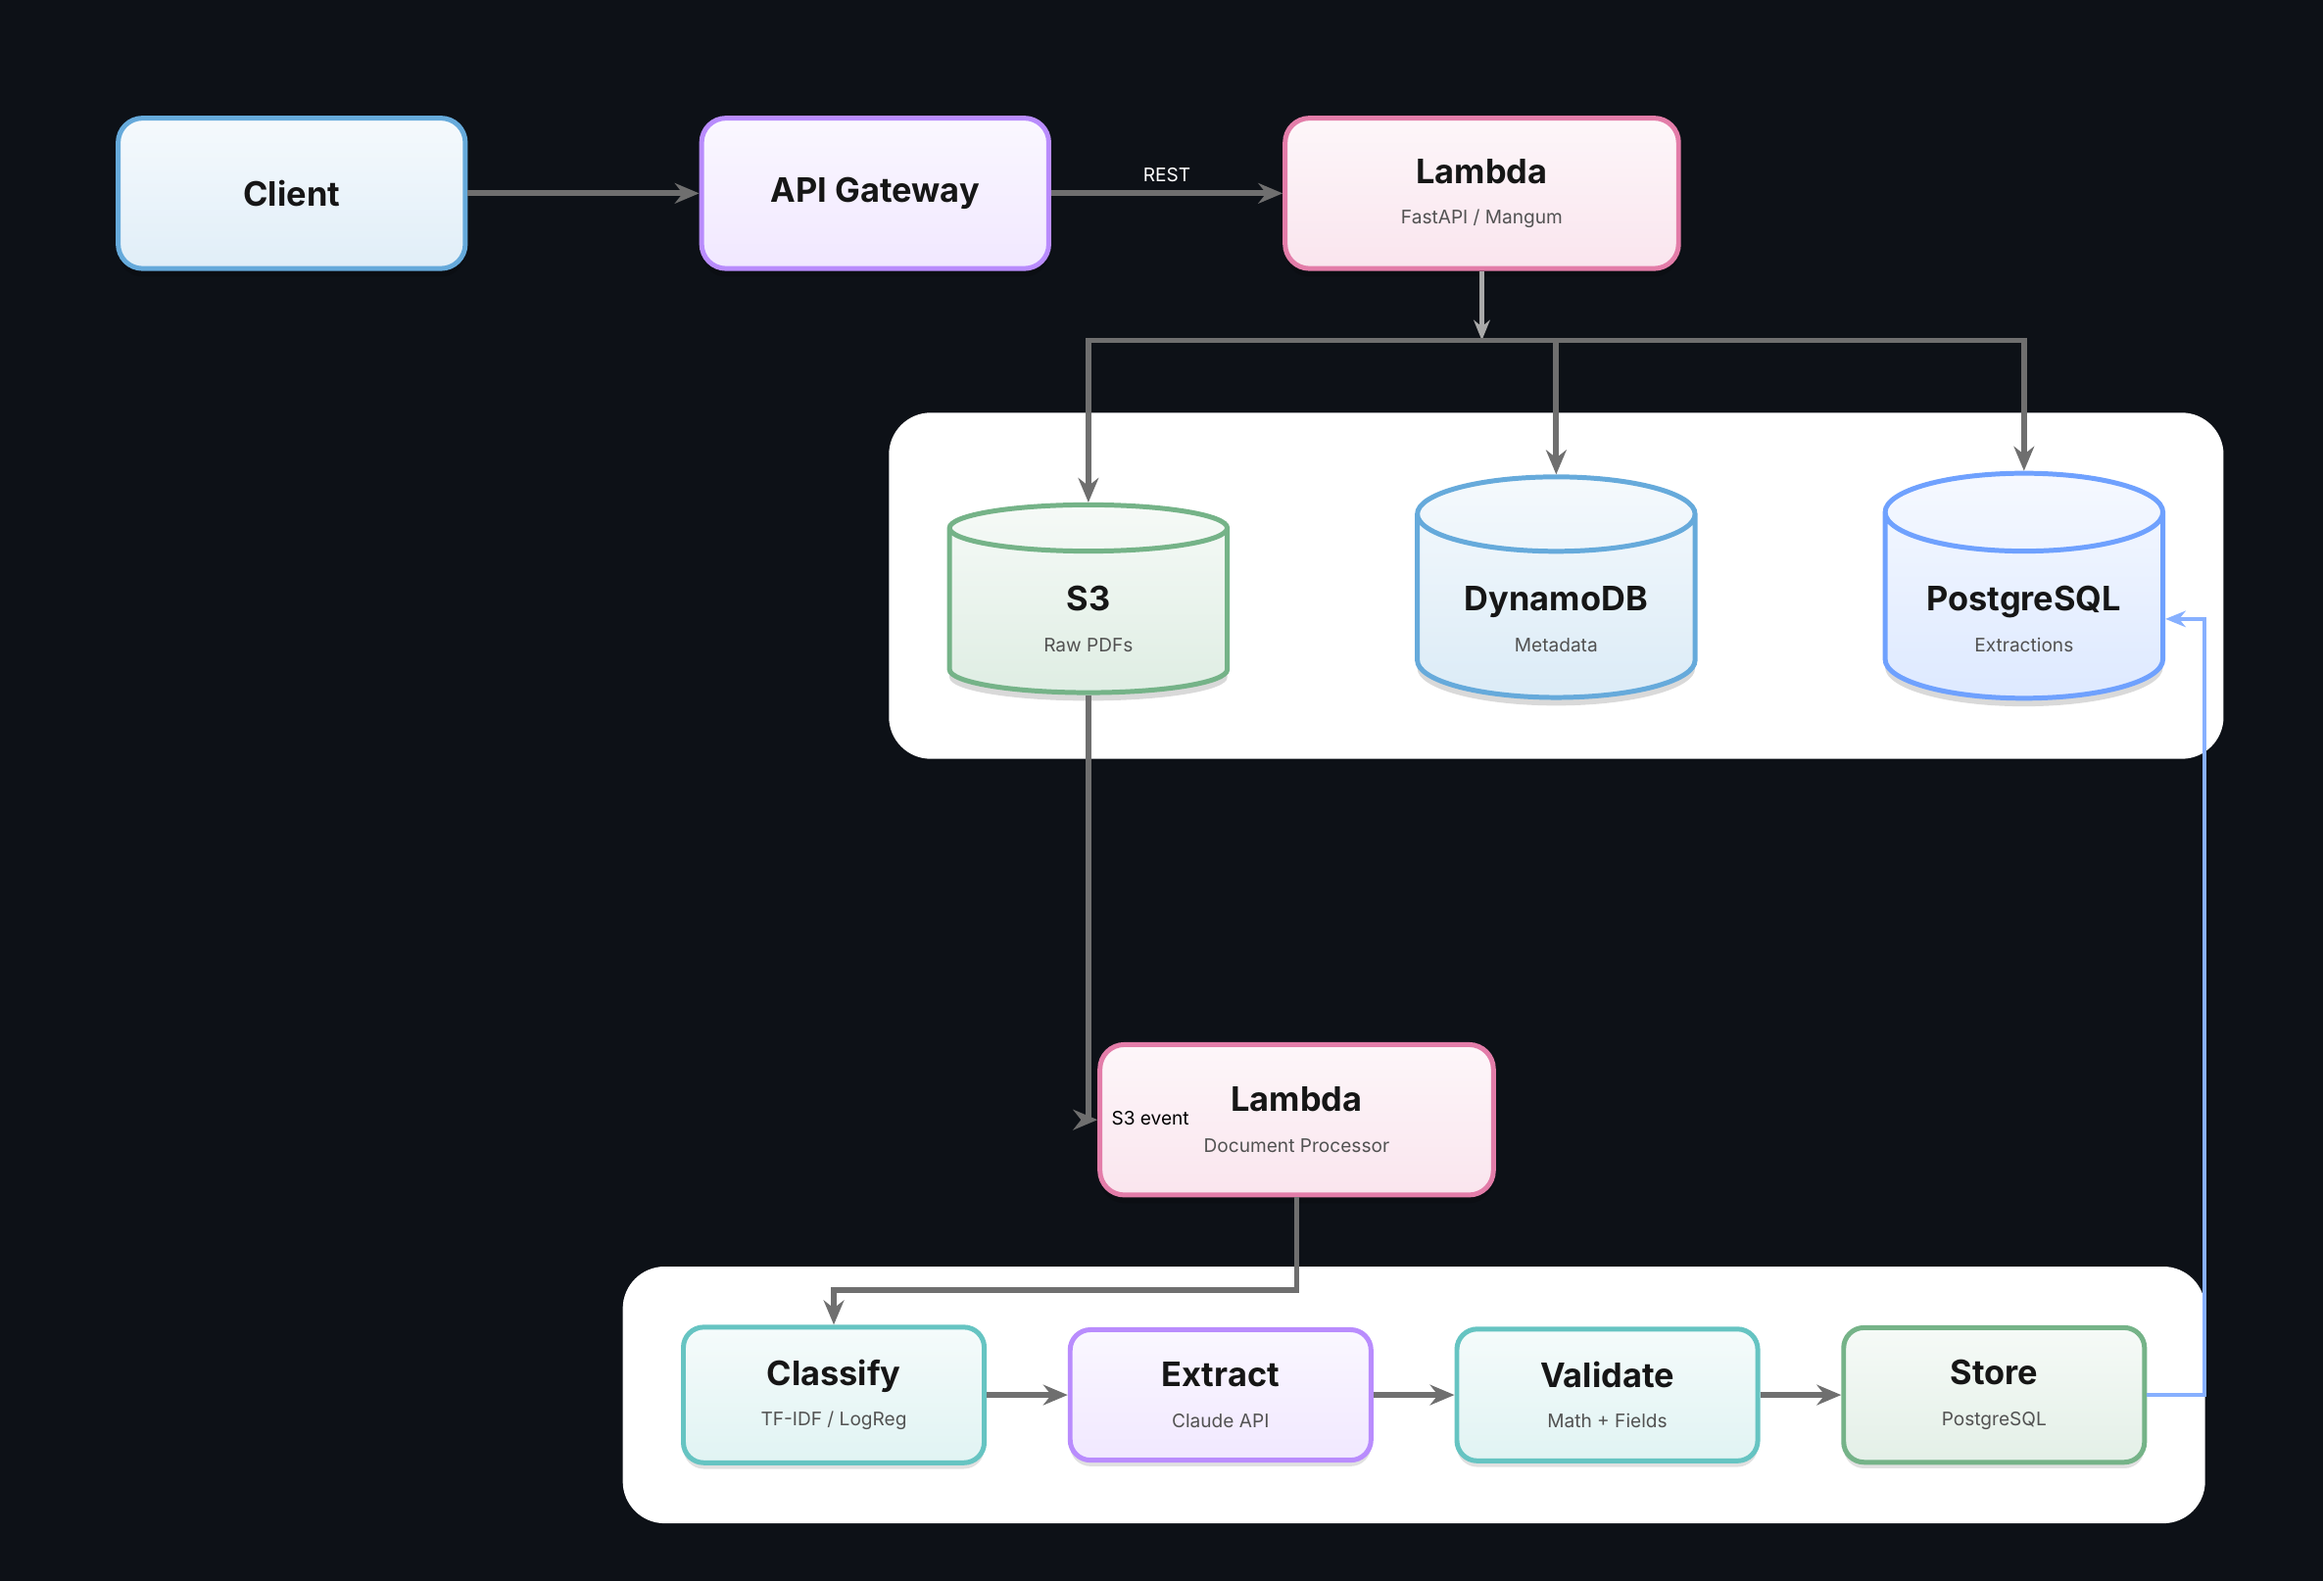
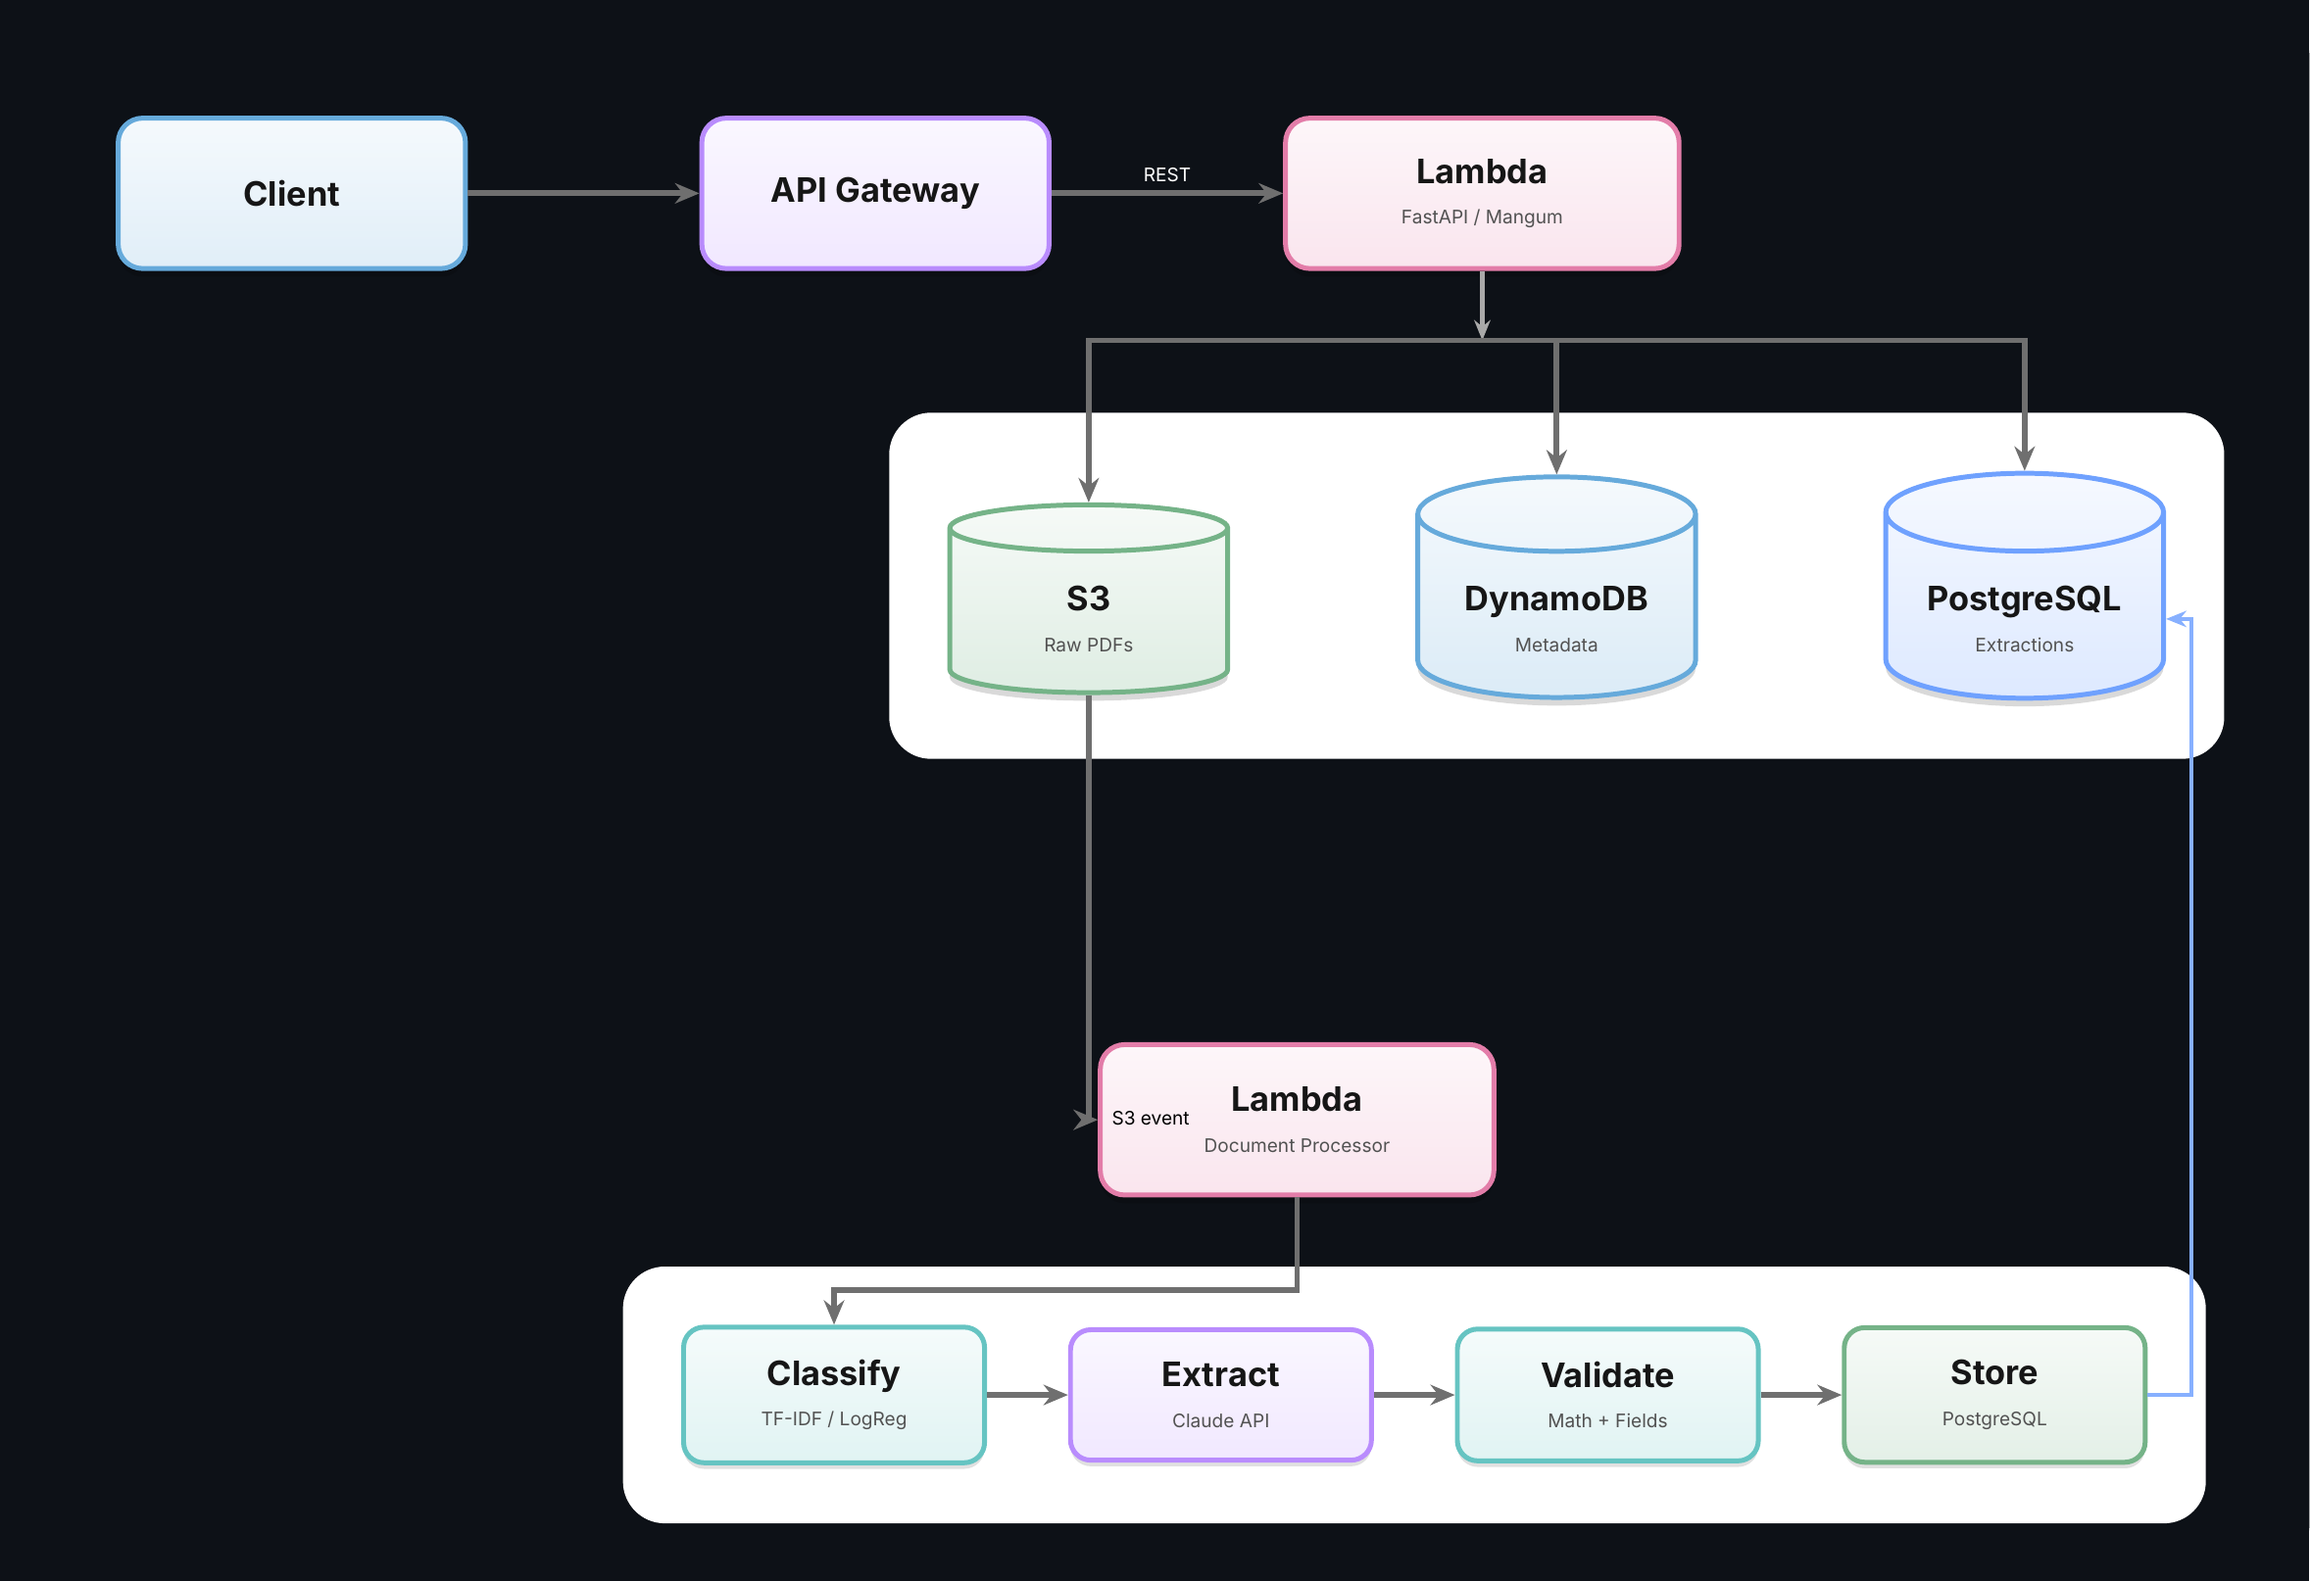
docs(diagrams): adjust Store to PostgreSQL arrow spacing

diff --git a/diagrams/architecture.tex b/diagrams/architecture.tex
@@ -196,7 +196,7 @@
 \draw[flow] (validate) -- (pstore);
 
 % Store -> PostgreSQL feedback
-\draw[flowlight, draw=primary!50] (pstore.east) -- ++(0.5,0) |- (pg.east);
+\draw[flowlight, draw=primary!50] (pstore.east) -- ++(0.38,0) |- (pg.east);
 
 % === Background containers ===
 
